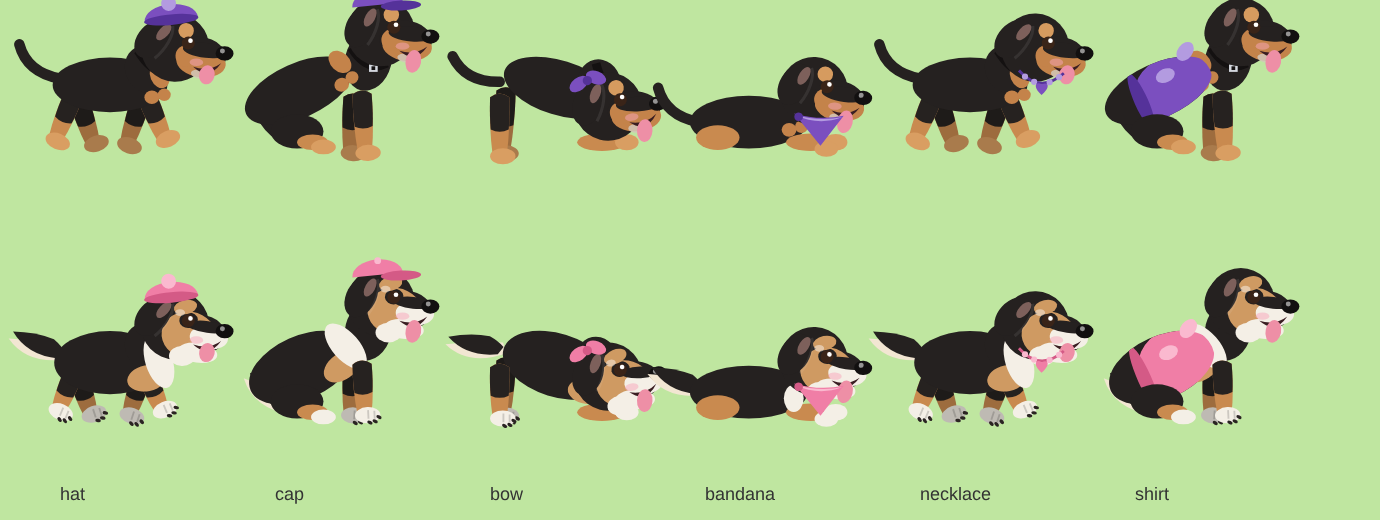
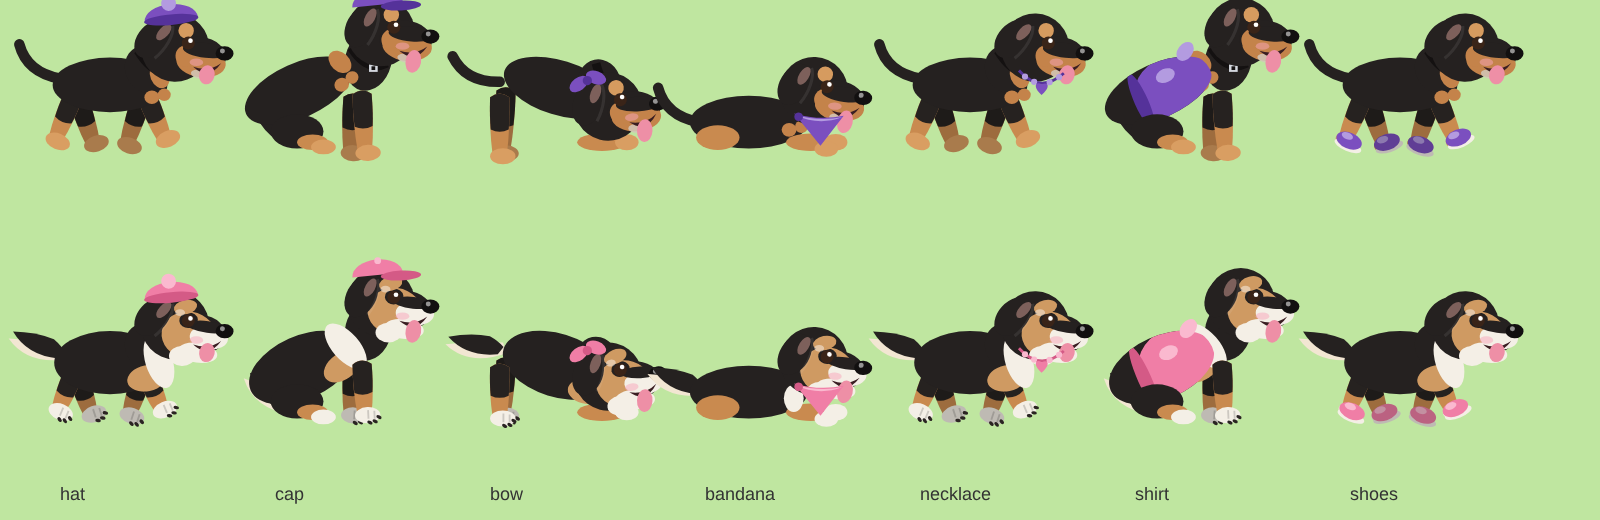
Outfits: shoes too (little sneakers over every paw, purple for Tidbit, pink for Sugarfoot)
Claude-Session: https://claude.ai/code/session_01F11x81sfGg3qnfmPYFW4i1

diff --git a/assets/js/pups.js b/assets/js/pups.js
@@ -16,7 +16,7 @@
   };
   // outfits (owner, Nov 3 2026): Tidbit always wears something purple, Sugarfoot always something pink, and the item
   // changes from scene to scene. The player sets TOLPups.outfitKey per scene; other pages get one per page.
-  var OUTFITS = ['hat', 'cap', 'bow', 'bandana', 'necklace', 'shirt'];
+  var OUTFITS = ['hat', 'cap', 'bow', 'bandana', 'necklace', 'shirt', 'shoes'];
   var WEAR = { collar: { main: '#7B4FBF', light: '#B39BE0', dark: '#55329A' }, drop: { main: '#F07EA6', light: '#FAB9CF', dark: '#D45A86' } };
   function hash(str) { var h = 0x811c9dc5; for (var i = 0; i < str.length; i++) { h ^= str.charCodeAt(i); h = Math.imul(h, 0x01000193) >>> 0; } return h; }
   function outfitFor(L, o) {
@@ -26,6 +26,13 @@
   }
   function drawPup(L, pose, ph, wag, blink, t, tilt, o) {
     var wear = outfitFor(L, o), WC = L.collar ? WEAR.collar : WEAR.drop;
+    function shoe(x, y, dk) { // a little sneaker over the paw: colored upper, pale sole, a lace
+      if (wear !== 'shoes') return;
+      var k = dk ? 0.78 : 1; function mul(c) { if (!dk) return c; var n = parseInt(c.slice(1), 16); return 'rgb(' + Math.round((n >> 16) * k) + ',' + Math.round((n >> 8 & 255) * k) + ',' + Math.round((n & 255) * k) + ')'; }
+      ctx.fillStyle = mul('#F4EFE6'); ctx.beginPath(); ctx.ellipse(x + 0.6, y + 1.3, 4.6, 1.7, 0, 0, Math.PI * 2); ctx.fill();
+      ctx.fillStyle = mul(WC.main); ctx.beginPath(); ctx.ellipse(x + 0.3, y - 0.4, 4.3, 2.6, 0, 0, Math.PI * 2); ctx.fill();
+      ctx.fillStyle = mul(WC.light); ctx.beginPath(); ctx.ellipse(x - 0.8, y - 1.6, 1.9, 1.1, 0, 0, Math.PI * 2); ctx.fill();
+    }
     var earX = (o && o.ear) || 0, noEar = !!(o && o.noEar);
     var BLACK = '#252120', TAN = L.tan || '#C4834A', WHITE = '#F4EFE6', PINK = '#EE8FA6';
     var lean = L.build === 'lean', LL = lean ? 15 : 12.5, BRX = lean ? 18.5 : 18, BRY = lean ? 8.8 : 10.2, BY = lean ? -21 : -18.5;
@@ -40,8 +47,8 @@
       ctx.quadraticCurveTo(3.4, len * 0.5, 3.1, -1); ctx.quadraticCurveTo(0, -3.4, -3.1, -1); ctx.fill();
       ctx.fillStyle = sh(L.legUp); ctx.beginPath(); ctx.moveTo(-3.1, -1); ctx.quadraticCurveTo(-3.3, up * 0.6, -2.9, up + 0.4); ctx.quadraticCurveTo(0, up + 1.8, 2.9, up + 0.4);
       ctx.quadraticCurveTo(3.3, up * 0.6, 3.1, -1); ctx.quadraticCurveTo(0, -3.4, -3.1, -1); ctx.fill();
-      ctx.fillStyle = sh(L.paw); ctx.beginPath(); ctx.ellipse(1, len, 4.1, 2.6, 0, 0, Math.PI * 2); ctx.fill();
-      if (L.nails) { // pale toes with little dark nails
+      ctx.fillStyle = sh(L.paw); ctx.beginPath(); ctx.ellipse(1, len, 4.1, 2.6, 0, 0, Math.PI * 2); ctx.fill(); shoe(1, len, back);
+      if (L.nails && wear !== 'shoes') { // pale toes with little dark nails
         ctx.strokeStyle = 'rgba(0,0,0,0.16)'; ctx.lineWidth = 0.6; ctx.beginPath(); ctx.moveTo(1.2, len - 1.6); ctx.lineTo(1.2, len + 1.2); ctx.moveTo(3.2, len - 1.3); ctx.lineTo(3.2, len + 1.3); ctx.stroke();
         ctx.fillStyle = '#2A2422'; [[4.6, len + 0.8], [3.3, len + 2.1], [1.6, len + 2.4]].forEach(function (n) { ctx.beginPath(); ctx.ellipse(n[0], n[1], 0.9, 0.55, 0.5, 0, Math.PI * 2); ctx.fill(); });
       }
@@ -76,7 +83,7 @@
       ctx.fillStyle = BLACK; ctx.beginPath(); ctx.ellipse(-2, -9, 19, 8.5, 0, 0, Math.PI * 2); ctx.fill();
       ctx.fillStyle = L.legLow; ctx.beginPath(); ctx.ellipse(-12, -4, 7, 4, 0, 0, Math.PI * 2); ctx.fill();
       ctx.fillStyle = L.legLow; ctx.beginPath(); ctx.ellipse(18, -2.5, 8, 2.8, 0, 0, Math.PI * 2); ctx.fill();
-      ctx.fillStyle = L.paw; ctx.beginPath(); ctx.ellipse(26, -2.5, 3.8, 2.7, 0, 0, Math.PI * 2); ctx.fill(); ctx.beginPath(); ctx.ellipse(23, -0.3, 3.8, 2.5, 0, 0, Math.PI * 2); ctx.fill();
+      ctx.fillStyle = L.paw; ctx.beginPath(); ctx.ellipse(26, -2.5, 3.8, 2.7, 0, 0, Math.PI * 2); ctx.fill(); ctx.beginPath(); ctx.ellipse(23, -0.3, 3.8, 2.5, 0, 0, Math.PI * 2); ctx.fill(); shoe(26, -2.5, true); shoe(23, -0.3);
       if (L.chest === 'white') { ctx.fillStyle = '#F4EFE6'; ctx.beginPath(); ctx.ellipse(12.5, -7, 3.2, 4.4, 0, 0, Math.PI * 2); ctx.fill(); }
       else { ctx.fillStyle = TAN; ctx.beginPath(); ctx.ellipse(11, -6.5, 2.4, 2.2, 0, 0, Math.PI * 2); ctx.fill(); ctx.beginPath(); ctx.ellipse(15, -7.5, 2.1, 2, 0, 0, Math.PI * 2); ctx.fill(); }
     } else {
@@ -111,8 +118,8 @@
     if (sit && L.collar) { ctx.strokeStyle = '#141111'; ctx.lineWidth = 2.8; ctx.beginPath(); ctx.moveTo(8.5, -33); ctx.quadraticCurveTo(13.5, -25, 20, -28); ctx.stroke();
       ctx.fillStyle = '#D5D9E0'; ctx.fillRect(14.2, -27.6, 2.8, 2.4); ctx.fillStyle = '#141111'; ctx.fillRect(15, -27, 1.2, 1.2); }
     if (moving) { /* the near legs are drawn before the body (above) */ }
-    else if (sit) { leg(12, -17, -0.05, LL + 3); ctx.fillStyle = BLACK; ctx.beginPath(); ctx.ellipse(-9, -6, 8.5, 5.5, 0, 0, Math.PI * 2); ctx.fill(); ctx.fillStyle = L.legLow; ctx.beginPath(); ctx.ellipse(-4, -2.5, 5, 2.5, 0, 0, Math.PI * 2); ctx.fill(); ctx.fillStyle = L.paw; ctx.beginPath(); ctx.ellipse(-0.5, -1, 4, 2.4, 0, 0, Math.PI * 2); ctx.fill(); }
-    else if (bow) { ctx.fillStyle = L.legLow; ctx.beginPath(); ctx.ellipse(20, -2.5, 8, 2.8, 0, 0, Math.PI * 2); ctx.fill(); ctx.fillStyle = L.paw; ctx.beginPath(); ctx.ellipse(28, -2.5, 3.8, 2.6, 0, 0, Math.PI * 2); ctx.fill(); leg(-13, -16, 0, LL + 3); }
+    else if (sit) { leg(12, -17, -0.05, LL + 3); ctx.fillStyle = BLACK; ctx.beginPath(); ctx.ellipse(-9, -6, 8.5, 5.5, 0, 0, Math.PI * 2); ctx.fill(); ctx.fillStyle = L.legLow; ctx.beginPath(); ctx.ellipse(-4, -2.5, 5, 2.5, 0, 0, Math.PI * 2); ctx.fill(); ctx.fillStyle = L.paw; ctx.beginPath(); ctx.ellipse(-0.5, -1, 4, 2.4, 0, 0, Math.PI * 2); ctx.fill(); shoe(-0.5, -1); }
+    else if (bow) { ctx.fillStyle = L.legLow; ctx.beginPath(); ctx.ellipse(20, -2.5, 8, 2.8, 0, 0, Math.PI * 2); ctx.fill(); ctx.fillStyle = L.paw; ctx.beginPath(); ctx.ellipse(28, -2.5, 3.8, 2.6, 0, 0, Math.PI * 2); ctx.fill(); shoe(28, -2.5); leg(-13, -16, 0, LL + 3); }
     // head: a little bigger than life, the way cartoons do it
     var hx = lie ? 19 : sit ? 18 : bow ? 22 : 21, hy = lie ? -19 : sit ? -38 : bow ? -14 : BY - 12;
     ctx.save(); ctx.translate(hx, hy); ctx.rotate((pose === 'run' ? Math.sin(ph) * 0.05 : bow ? -0.15 : lie ? 0.05 : 0) + (tilt || 0));
